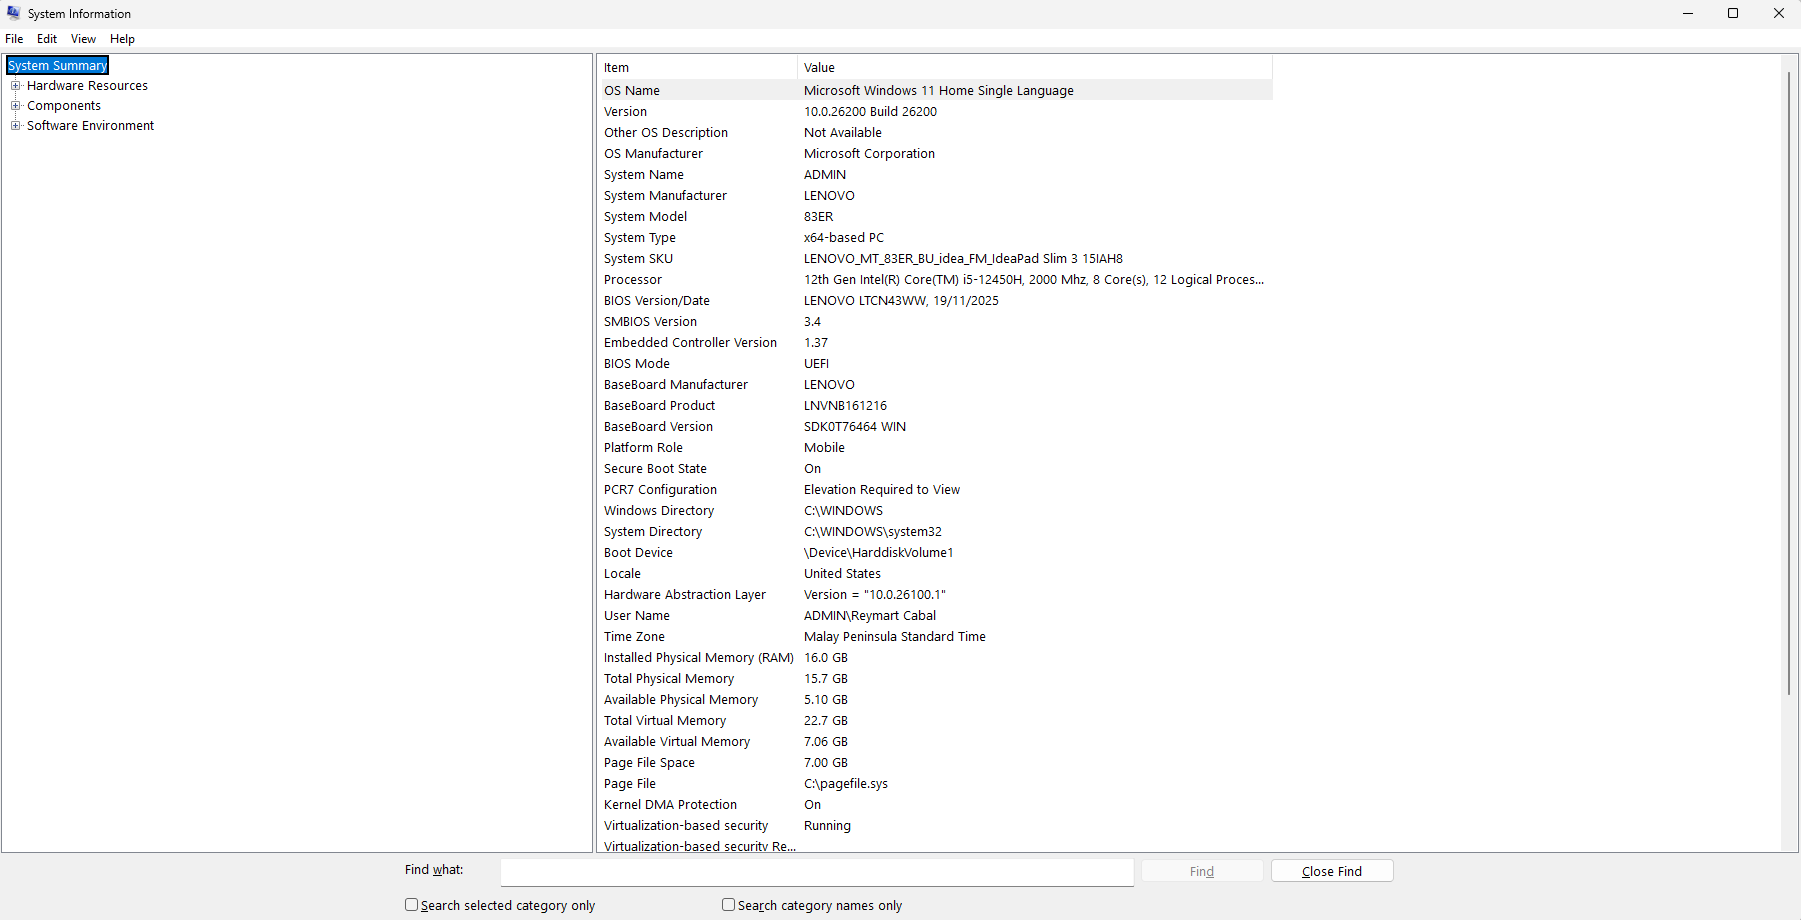
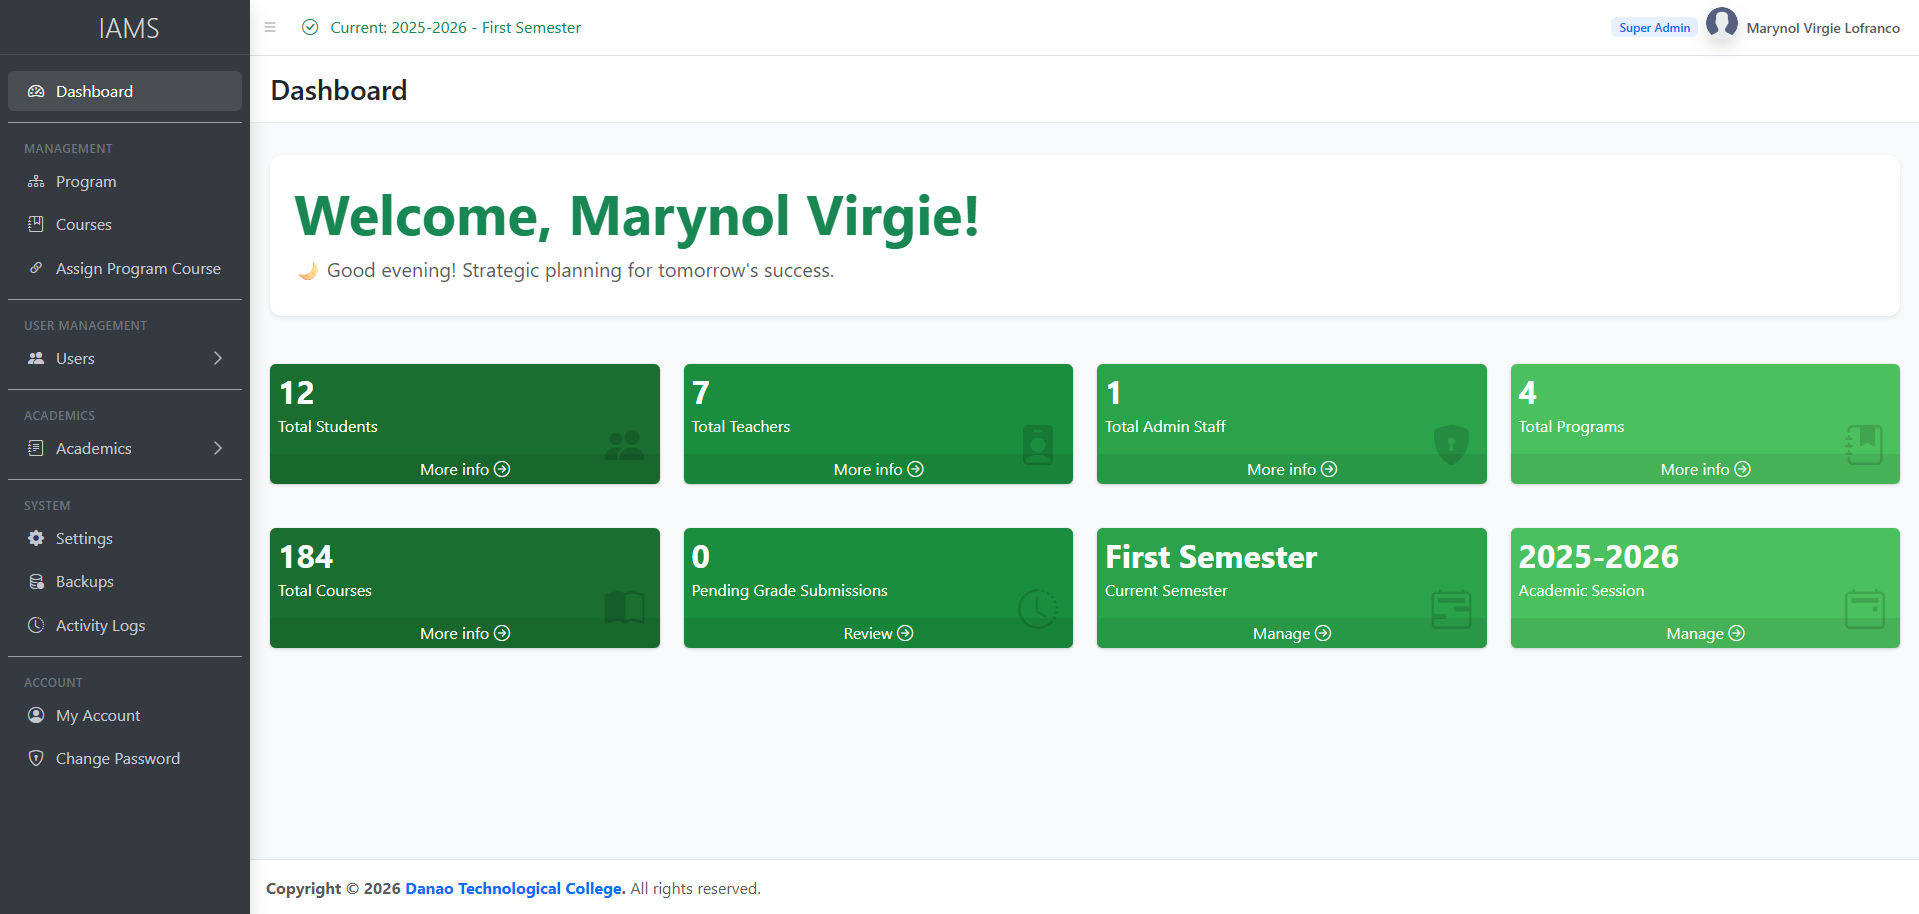
Update portfolio

diff --git a/src/sections/Projects.jsx b/src/sections/Projects.jsx
@@ -6,7 +6,7 @@ const projects = [
     title: "Integrated Academic Management System",
     description:
       "A full-stack web application built from scratch to automate an entire college's grading workflow. Features secure authentication and role-based access control to streamline manual processing for faculty and administrators.",
-    image: "/projects/project4.png",
+    image: "/projects/project1.png",
     tags: ["Laravel", "Blade", "Bootstrap", "MySQL"],
     link: "https://github.com/RCABAL11/iams.git",
     github: "https://github.com/RCABAL11/iams.git",
@@ -20,15 +20,15 @@ const projects = [
     link: "#project",
     github: "#project",
   },
-  {
-    title: "Car Dealership Website",
-    description:
-      "A dynamic vehicle inventory platform that allows users to browse available cars, filter by specifications, and view detailed listings. Built with a focus on clean database architecture and an intuitive user interface.",
-    image: "/projects/project2.png",
-    tags: ["PHP Native", "Bootstrap", "MySQL"],
-    link: "#",
-    github: "#",
-  },
+  // {
+  //   title: "Car Dealership Website",
+  //   description:
+  //     "A dynamic vehicle inventory platform that allows users to browse available cars, filter by specifications, and view detailed listings. Built with a focus on clean database architecture and an intuitive user interface.",
+  //   image: "/projects/project2.png",
+  //   tags: ["PHP Native", "Bootstrap", "MySQL"],
+  //   link: "#",
+  //   github: "#",
+  // },
   {
     title: "Hotel Booking Reservation",
     description:
